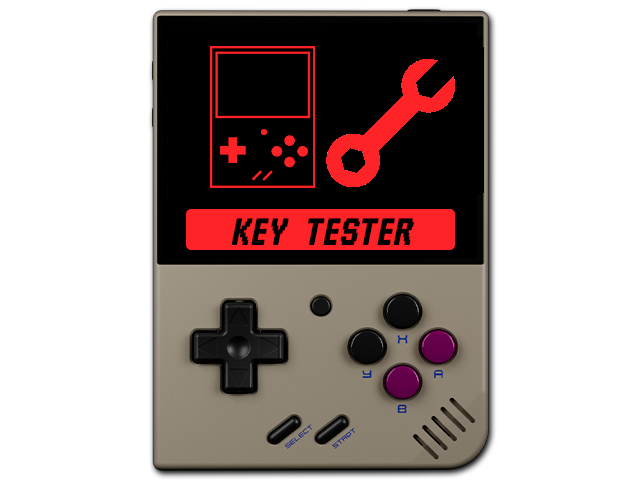
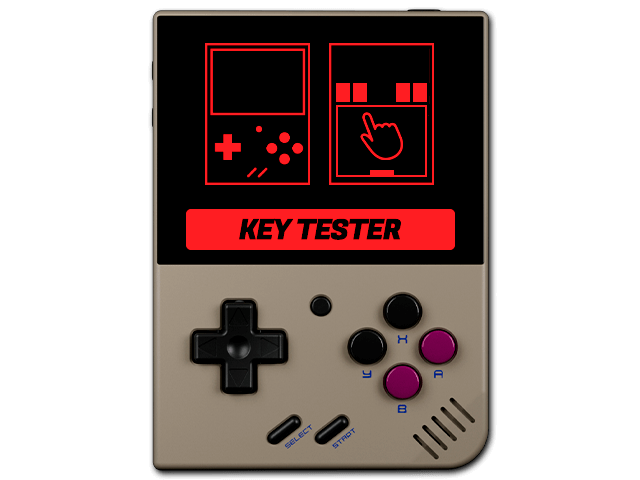
finish app keytester

Changed region(s): [[0.3125, 0.0625, 0.7188, 0.4062], [0.3438, 0.4375, 0.6562, 0.5312], [0.5312, 0.0625, 0.6562, 0.0938]]

diff --git a/base/App/keytest/keytester.py b/base/App/keytest/keytester.py
@@ -21,8 +21,8 @@ is_charging = 0  # Charging status
 vibration_active = False  # Track if vibration is active
 
 # Coordinates for the icons
-icon_1_coords = (186, 87)
-icon_2_coords = (246, 84)
+icon_1_coords = (175, 93)
+icon_2_coords = (235, 90)
 
 keycode = {  # Linux event keycodes
     "UP": ("103", "#UP"),
@@ -46,24 +46,24 @@ keycode = {  # Linux event keycodes
 }
 
 circle_coordinates = {
-    "UP": (117, 304),    # "UP" button on the D-pad
-    "DOWN": (118, 347),  # "DOWN" button on the D-pad
-    "LEFT": (94, 326),   # "LEFT" button on the D-pad
-    "RIGHT": (142, 326), # "RIGHT" button on the D-pad
-    "A": (265, 325),     # "A" button
-    "B": (239, 352),     # "B" button
-    "Y": (213, 325),     # "Y" button
-    "X": (239, 299),     # "X" button
-    "L1": (558, 209),    # "L1" button
-    "R1": (364, 209),    # "R1" button
-    "L2": (513, 209),    # "L2" button
-    "R2": (410, 209),    # "R2" button
-    "start": (196, 379), # "start" button
-    "select": (161, 379),# "select" button
-    "menu": (179, 295),  # "menu" button
-    "vol+": (53, 119),   # "vol+" button
-    "vol-": (53, 149),   # "vol-" button
-    "power": (255, 75)   # "power" button
+    "UP": (109, 306),    # "UP" button on the D-pad
+    "DOWN": (109, 347),  # "DOWN" button on the D-pad
+    "LEFT": (86, 327),   # "LEFT" button on the D-pad
+    "RIGHT": (133, 327), # "RIGHT" button on the D-pad
+    "A": (255, 327),     # "A" button
+    "B": (229, 353),     # "B" button
+    "Y": (203, 327),     # "Y" button
+    "X": (229, 301),     # "X" button
+    "L1": (570, 212),    # "L1" button
+    "R1": (377, 212),    # "R1" button
+    "L2": (526, 212),    # "L2" button
+    "R2": (422, 212),    # "R2" button
+    "start": (186, 380), # "start" button
+    "select": (151, 380),# "select" button
+    "menu": (170, 297),  # "menu" button
+    "vol+": (42, 119),   # "vol+" button
+    "vol-": (42, 155),   # "vol-" button
+    "power": (250, 76)   # "power" button
 }
 
 background_image = pygame.image.load("background.png")
